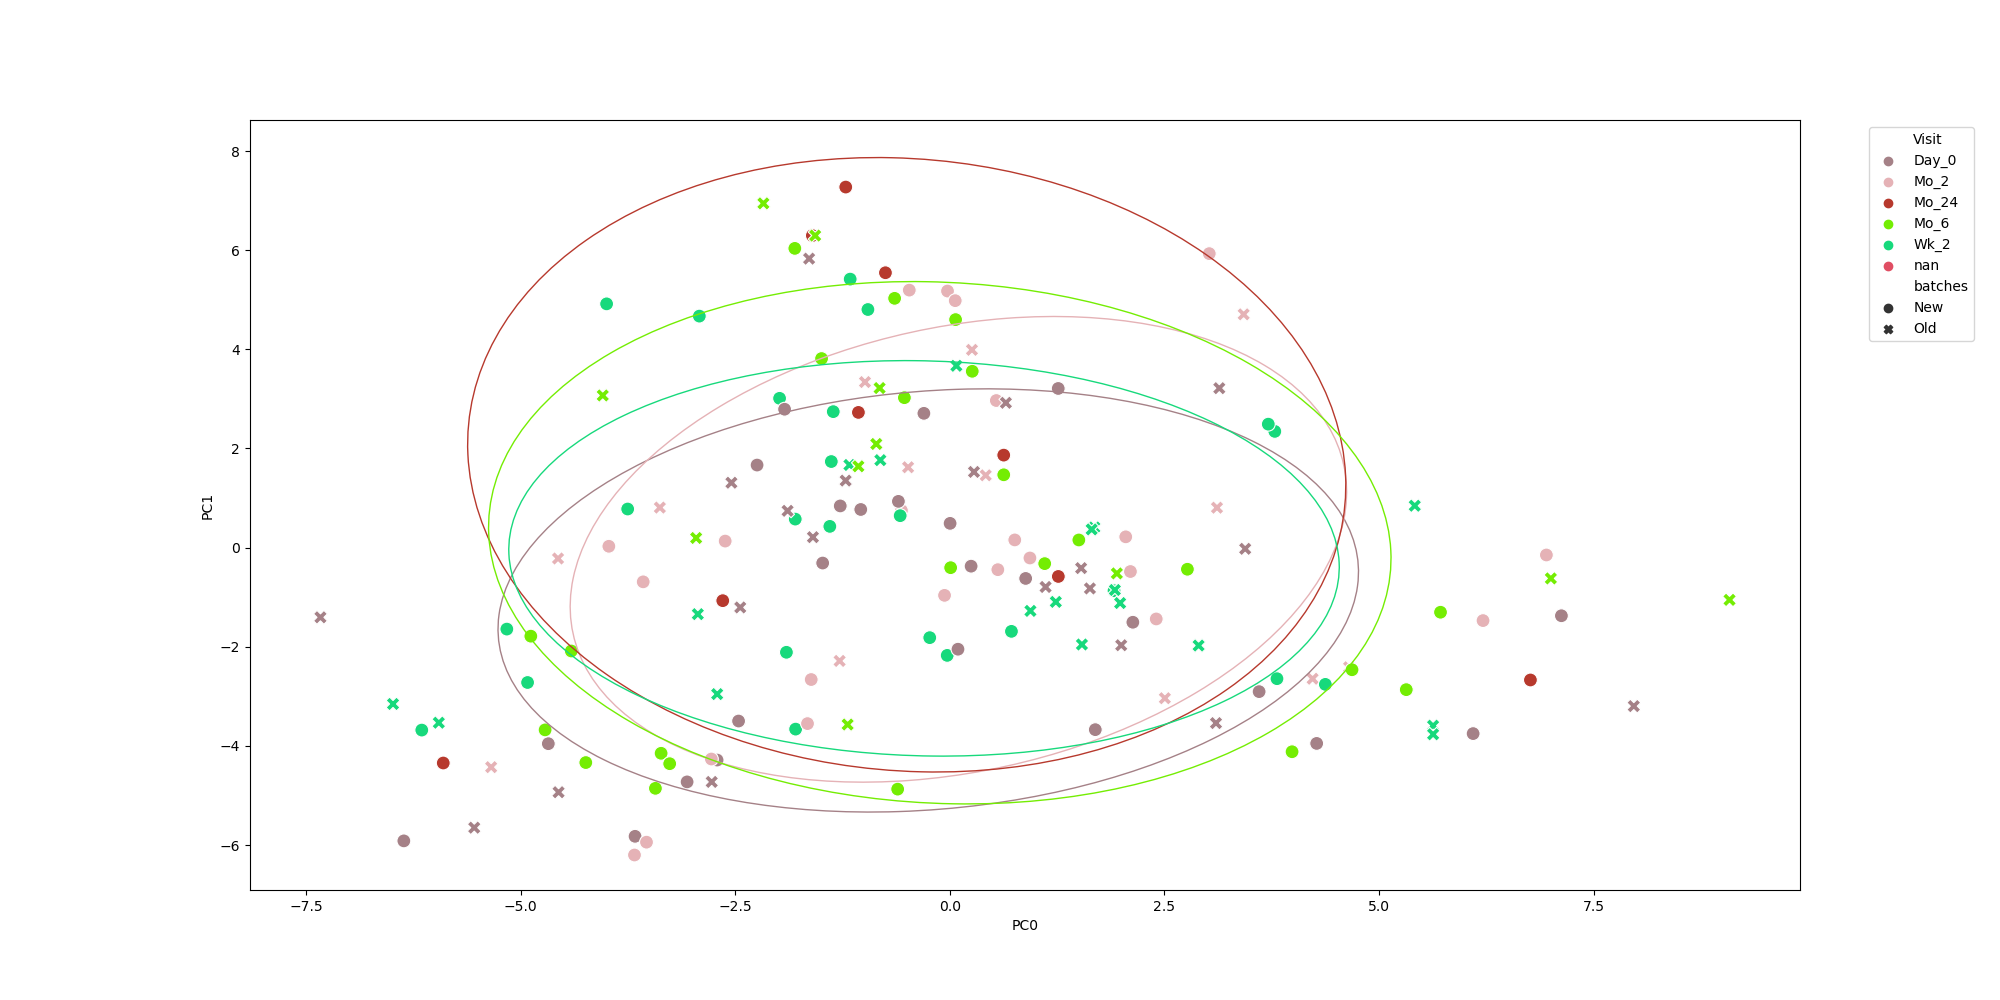
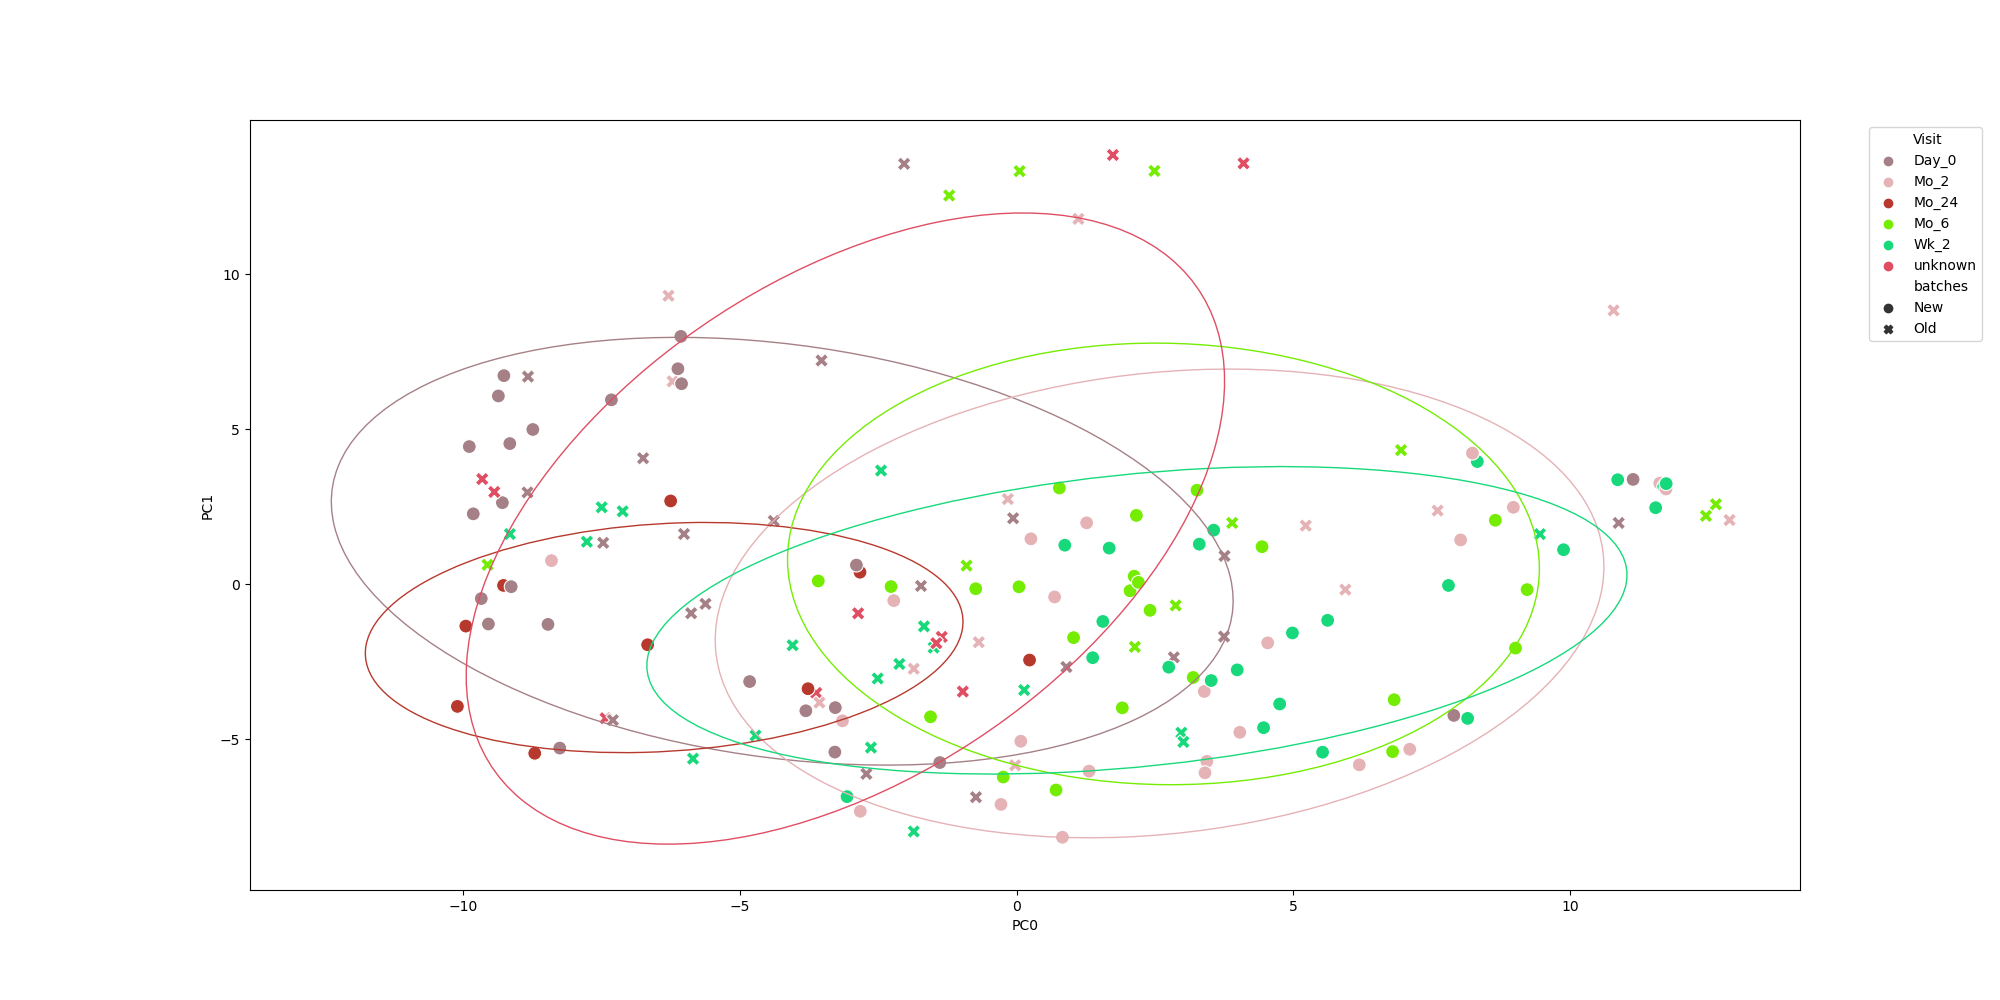
fixed things + run PC version of harmony

diff --git a/harmonypy/harmonypy/evaluate.py b/harmonypy/harmonypy/evaluate.py
@@ -16,6 +16,7 @@
 
 from preprocessing import *
 from harmonicMic import run_harmonicMic
+from harmony import run_harmony
 import matplotlib.pyplot as plt
 from matplotlib.patches import Ellipse
 import matplotlib.transforms as transforms
@@ -38,8 +39,13 @@ def generate_harmonicMic_results(address_X, address_Y, IDCol, vars_use, index_co
     res.columns = list(meta_data[IDCol])
     return res.T, meta_data
 
-def generate_harmony_results(address_X, address_Y, IDCol, vars_use, index_col = False):
+def generate_harmony_results(address_X, address_Y, IDCol, vars_use, index_col = False, PCA_first = False):
     data_mat, meta_data = load_data(address_X, address_Y, IDCol, index_col)
+    if PCA_first:
+        pca_results  = PCA(n_components = 30, random_state=np.random.RandomState(88))
+        pca_results.fit(data_mat)
+        data_mat_1 = pca_results.transform(data_mat)
+        data_mat = pd.DataFrame(data_mat_1, index = data_mat.index, columns= ['PC'+str(i) for i in range(30)])
     ho = run_harmony(data_mat, meta_data, vars_use)
     res = pd.DataFrame(ho.Z_corr)
 
@@ -47,6 +53,8 @@ def generate_harmony_results(address_X, address_Y, IDCol, vars_use, index_col = 
     res.index = data_mat.columns
     res.columns = list(meta_data[IDCol])
     return res, meta_data
+
+
 # address_X = "/home/fuc/HRZE_TB/tom_organized_codes/batch_correction_PCA/1021_microbiome_batchcorrection/microbiome_merged_intersect_1023.csv"
 # address_Y = "/home/fuc/HRZE_TB/tom_organized_codes/batch_correction_PCA/1021_microbiome_batchcorrection/intersect_metadata_1023.csv"
 # IDCol = 'Sam_id'
@@ -55,6 +63,7 @@ def generate_harmony_results(address_X, address_Y, IDCol, vars_use, index_col = 
 # res, meta_data = generate_harmonicMic_results(address_X, address_Y, IDCol, vars_use, index_col)
 
 # res_h, meta_data = generate_harmony_results(address_X, address_Y, IDCol, vars_use, index_col)
+# res_h, meta_data = generate_harmony_results(address_X, address_Y, IDCol, vars_use, index_col, True)
 def confidence_ellipse(x, y, ax, n_std=3.0, facecolor='none', **kwargs):
     """
     Create a plot of the covariance confidence ellipse of *x* and *y*.
@@ -115,6 +124,7 @@ def run_eval(batch_corrected_df, meta_data, batch_var, output_root, bio_var = Fa
 
 # Evaluate(res, meta_data, 'Dataset', 'Glickman_harmonicMic', "Visit", 30, 'Sex', 'Sam_id')
 # Evaluate(res_h, meta_data, 'Dataset', 'Glickman_harmony', "Visit", 30, 'Sex', 'Sam_id')
+# Evaluate(res_h, meta_data, 'Dataset', 'Glickman_harmony_PCs', "Visit", 30, 'Sex', 'Sam_id')
 class Evaluate(object):
     def __init__(
             self, batch_corrected_df, meta_data, batch_var, output_root, bio_var = False, n_pc=30, covar = False, IDCol = None
@@ -288,7 +298,7 @@ class Evaluate(object):
         shannon_fig = shannon_df.boxplot(column='shannon', by=test_var)
         shannon_fig.figure.savefig(self.output_root+"_alpha_shannon_pcoa.png")
         bc_metadata = self.meta_data
-        bc_metadata.index = bc_metadata[IDCol]
+        bc_metadata.index = bc_metadata[self.IDCol]
         bc_metadata[test_var] = bc_metadata[test_var].fillna("unknown")
         bc_fig = bc_pc.plot(bc_metadata, test_var,
                  axis_labels=('PC 1', 'PC 2', 'PC 3'),
